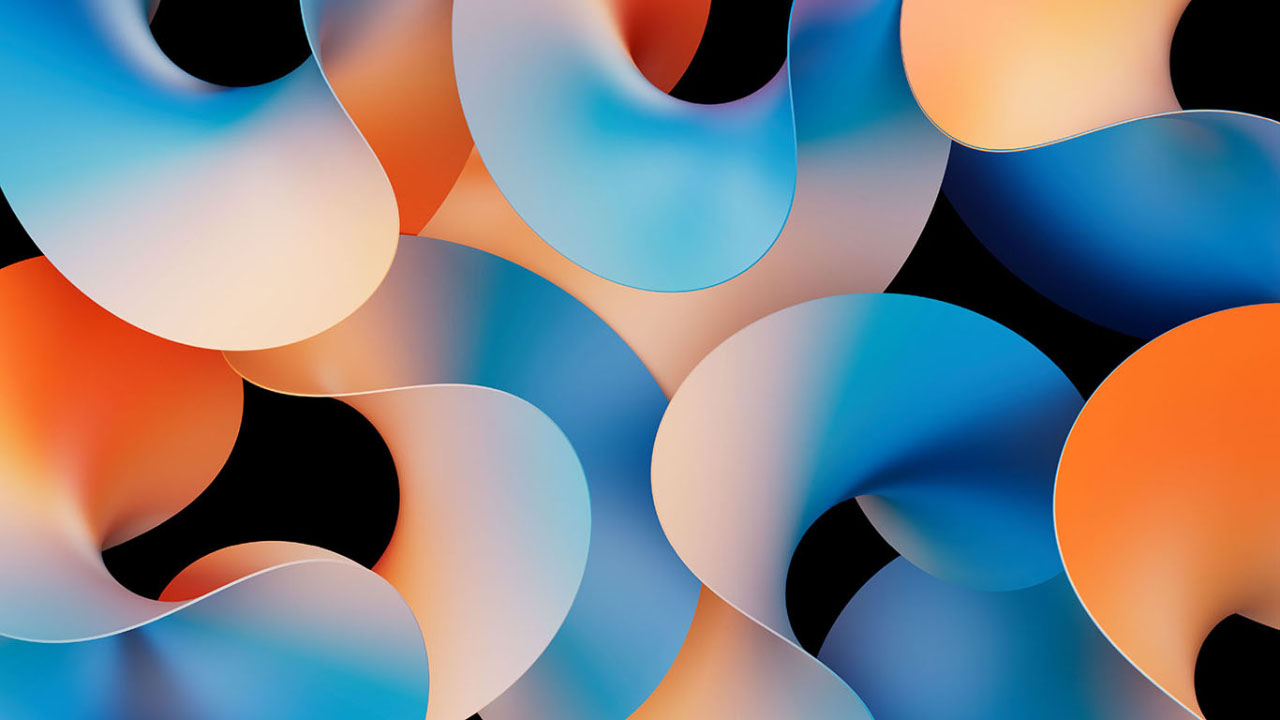
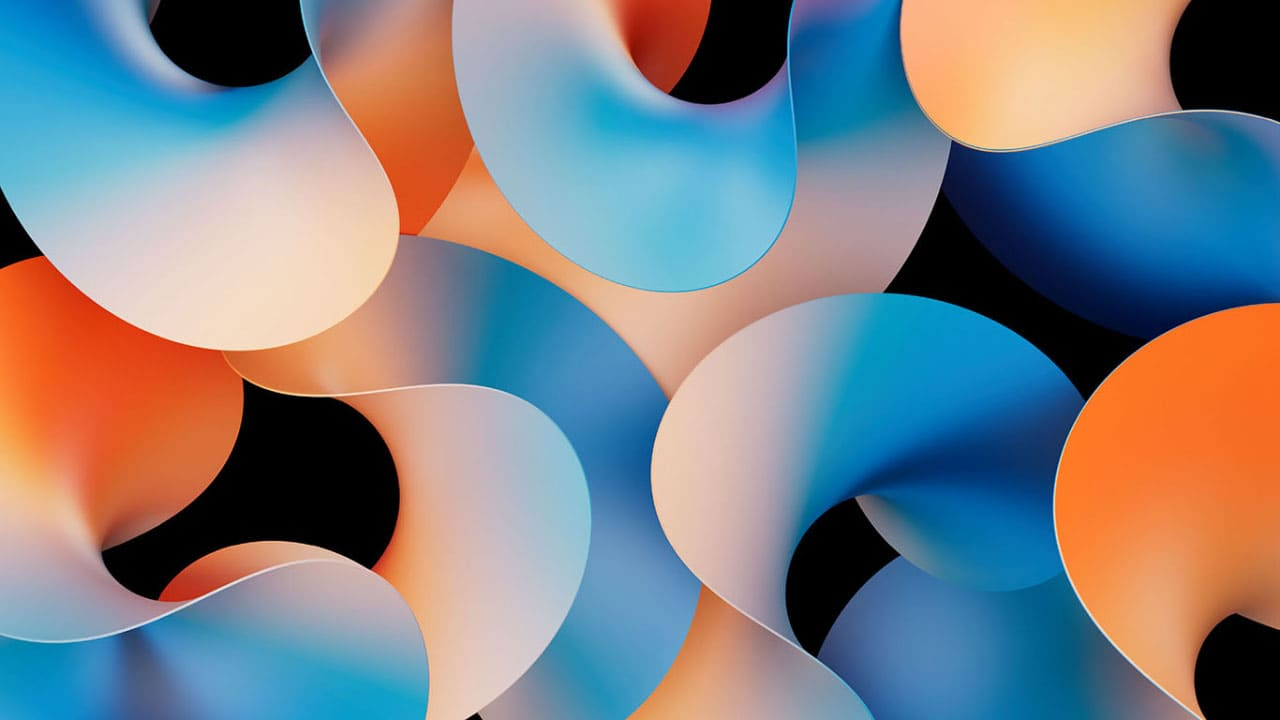
[Update] Tests packages + Remove one predifined-image and unnecessary packages + compress images
This should slightly reduce the size of the application and the memory used.I will release version 1.1.0 with all these changes when I can update to .NET10 (I am waiting for the first stable version of the SDK to be available) and I will update the main application packages.

diff --git a/src/CustomKey.Tests/Common/LayoutLoaderTest.cs b/src/CustomKey.Tests/Common/LayoutLoaderTest.cs
@@ -1,4 +1,5 @@
-using CustomKey.Common;
+using System.Runtime.CompilerServices;
+using CustomKey.Common;
 
 namespace CustomKey.Tests.Common
 {
@@ -15,14 +16,14 @@ namespace CustomKey.Tests.Common
         public void ConvertToVcKey_Correct_Value()
         {
             string result = LayoutLoader.ConvertToVcKey("D1");
-            Assert.AreEqual("Vc1", result);
+            Assert.That(result, Is.EqualTo("Vc1"));
         }
 
         [Test]
         public void ConvertToVcKey_Null_If_Not_Found()
         {
             string result = LayoutLoader.ConvertToVcKey("UnknownKey");
-            Assert.IsNull(result);
+            Assert.That(result, Is.Null);
         }
 
         [Test]
@@ -32,7 +33,7 @@ namespace CustomKey.Tests.Common
             Utility.IsShift = false;
 
             string result = LayoutLoader.GetChar("Key1");
-            Assert.AreEqual("a", result);
+            Assert.That(result, Is.EqualTo("a"));
         }
 
         [Test]
@@ -42,7 +43,7 @@ namespace CustomKey.Tests.Common
             Utility.IsShift = true;
 
             string result = LayoutLoader.GetChar("Key1");
-            Assert.AreEqual("A", result);
+            Assert.That(result, Is.EqualTo("A"));
         }
 
         [Test]
@@ -52,7 +53,7 @@ namespace CustomKey.Tests.Common
             Utility.IsShift = true;
 
             string result = LayoutLoader.GetChar("Key1");
-            Assert.AreEqual("B", result);
+            Assert.That(result, Is.EqualTo("B"));
         }
 
         [Test]
@@ -60,7 +61,7 @@ namespace CustomKey.Tests.Common
         {
             Utility.IsShift = false;
             string result = LayoutLoader.GetChar("Key999");
-            Assert.AreEqual("", result);
+            Assert.That(result, Is.EqualTo(""));
         }
 
         [Test]
@@ -69,8 +70,8 @@ namespace CustomKey.Tests.Common
             string result1 = LayoutLoader.GetChar(null);
             string result2 = LayoutLoader.GetChar("   ");
 
-            Assert.AreEqual("", result1);
-            Assert.AreEqual("", result2);
+            Assert.That(result1, Is.EqualTo(""));
+            Assert.That(result2, Is.EqualTo(""));
         }
 
         [Test]
@@ -80,7 +81,7 @@ namespace CustomKey.Tests.Common
             Utility.IsShift = false;
 
             string result = LayoutLoader.GetChar("Key1Shift");
-            Assert.AreEqual("Y", result);
+            Assert.That(result, Is.EqualTo("Y"));
         }
 
         [Test]
@@ -90,14 +91,14 @@ namespace CustomKey.Tests.Common
             Utility.IsShift = true;
 
             string result = LayoutLoader.GetChar("Key1Shift");
-            Assert.AreEqual("", result);
+            Assert.That(result, Is.EqualTo(""));
         }
 
         [Test]
         public void GetJsonFileName_Null_If_Not_Found()
         {
             string result = LayoutLoader.GetJsonFileName("UnknownLayout");
-            Assert.IsNull(result);
+            Assert.That(result, Is.Null);
         }
     }
 }

diff --git a/src/CustomKey/ViewModels/SettingsWindowViewModel.cs b/src/CustomKey/ViewModels/SettingsWindowViewModel.cs
@@ -18,7 +18,6 @@ namespace CustomKey.ViewModels
 
         public string VersionNumber => "Version " + Utility.GetAssemblyVersion();
         public string[] AppThemes { get; } = new[] { "System", "Light", "Dark" };
-        
         public string[] Languages { get; } = Translator.Languages;
 
         public string CurrentAppTheme
@@ -148,7 +147,7 @@ namespace CustomKey.ViewModels
                 
                 Task.Run(async () =>
                 {
-                    await Task.Delay(70, token);
+                    await Task.Delay(100, token);
                     if (token.IsCancellationRequested) return;
                     
                     Avalonia.Threading.Dispatcher.UIThread.Post(() =>
@@ -177,16 +176,14 @@ namespace CustomKey.ViewModels
         }
 
         // Method for attaching click events to images
-        public void AttachImageClickEvents(Image blueImage, Image curvesImage, Image geoImage, Image gradientImage, Image redImage)
+        public void AttachImageClickEvents(Image curvesImage, Image geoImage, Image gradientImage, Image redImage)
         {
             // Load image source at the same time
-            blueImage.Source = Bitmap.DecodeToWidth(AssetLoader.Open(new Uri("avares://CustomKey/Assets/background/blue.jpg")), 200, BitmapInterpolationMode.LowQuality);
             curvesImage.Source = Bitmap.DecodeToWidth(AssetLoader.Open(new Uri("avares://CustomKey/Assets/background/curves.jpg")), 200, BitmapInterpolationMode.LowQuality);
             geoImage.Source = Bitmap.DecodeToWidth(AssetLoader.Open(new Uri("avares://CustomKey/Assets/background/geo.jpg")), 200, BitmapInterpolationMode.LowQuality);
             gradientImage.Source = Bitmap.DecodeToWidth(AssetLoader.Open(new Uri("avares://CustomKey/Assets/background/gradient.jpg")), 200, BitmapInterpolationMode.LowQuality);
             redImage.Source = Bitmap.DecodeToWidth(AssetLoader.Open(new Uri("avares://CustomKey/Assets/background/red.jpg")), 200, BitmapInterpolationMode.LowQuality);
             
-            blueImage.PointerPressed += (sender, e) => OnImageClicked("avares://CustomKey/Assets/background/blue.jpg");
             curvesImage.PointerPressed += (sender, e) => OnImageClicked("avares://CustomKey/Assets/background/curves.jpg");
             geoImage.PointerPressed += (sender, e) => OnImageClicked("avares://CustomKey/Assets/background/geo.jpg");
             gradientImage.PointerPressed += (sender, e) => OnImageClicked("avares://CustomKey/Assets/background/gradient.jpg");

diff --git a/src/CustomKey.Tests/Common/UtilityTest.cs b/src/CustomKey.Tests/Common/UtilityTest.cs
@@ -1,6 +1,6 @@
 using CustomKey.Common;
 
-namespace CustomKey.Tests
+namespace CustomKey.Tests.Common
 {
     [TestFixture]
     public class UtilityTests
@@ -22,7 +22,7 @@ namespace CustomKey.Tests
             Utility.GlobalRefresh += () => _eventTriggered = true;
 
             Utility.IsShift = false;
-            Assert.IsFalse(_eventTriggered);
+            Assert.That(_eventTriggered, Is.False);
         }
 
         [Test]
@@ -31,17 +31,17 @@ namespace CustomKey.Tests
             Utility.GlobalRefresh += () => _eventTriggered = true;
 
             Utility.IsShift = true;
-            Assert.IsTrue(_eventTriggered);
+            Assert.That(_eventTriggered, Is.True);
         }
 
         [Test]
         public void IsInputEnabled_CanBeModified()
         {
             Utility.IsInputEnabled = false;
-            Assert.IsFalse(Utility.IsInputEnabled);
+            Assert.That(Utility.IsInputEnabled, Is.False);
 
             Utility.IsInputEnabled = true;
-            Assert.IsTrue(Utility.IsInputEnabled);
+            Assert.That(Utility.IsInputEnabled, Is.True);
         }
 
         [Test]

diff --git a/src/CustomKey/Views/SettingsWindow.axaml.cs b/src/CustomKey/Views/SettingsWindow.axaml.cs
@@ -19,7 +19,6 @@ namespace CustomKey.Views
             
             // Attaching click events
             _viewModel.AttachImageClickEvents(
-                this.FindControl<Image>("BlueImage"),
                 this.FindControl<Image>("CurvesImage"),
                 this.FindControl<Image>("GeoImage"),
                 this.FindControl<Image>("GradientImage"),

diff --git a/src/CustomKey/Program.cs b/src/CustomKey/Program.cs
@@ -16,6 +16,5 @@ sealed class Program
     public static AppBuilder BuildAvaloniaApp()
         => AppBuilder.Configure<App>()
             .UsePlatformDetect()
-            .WithInterFont()
             .LogToTrace();
 }
